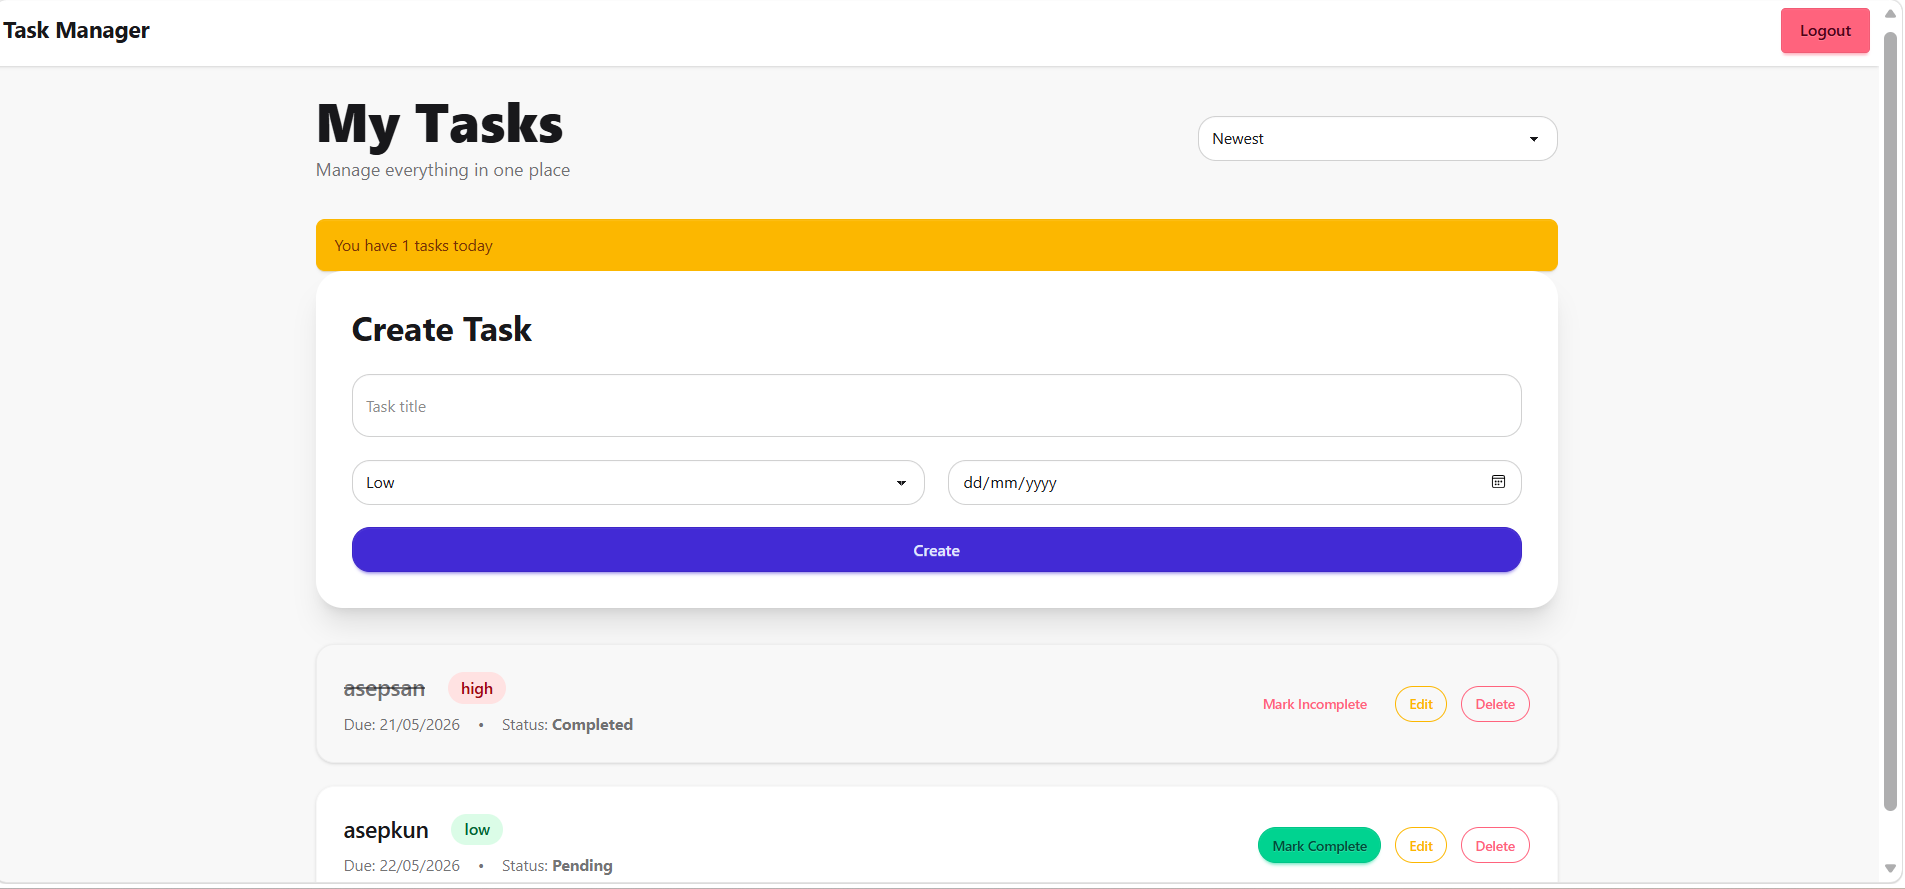
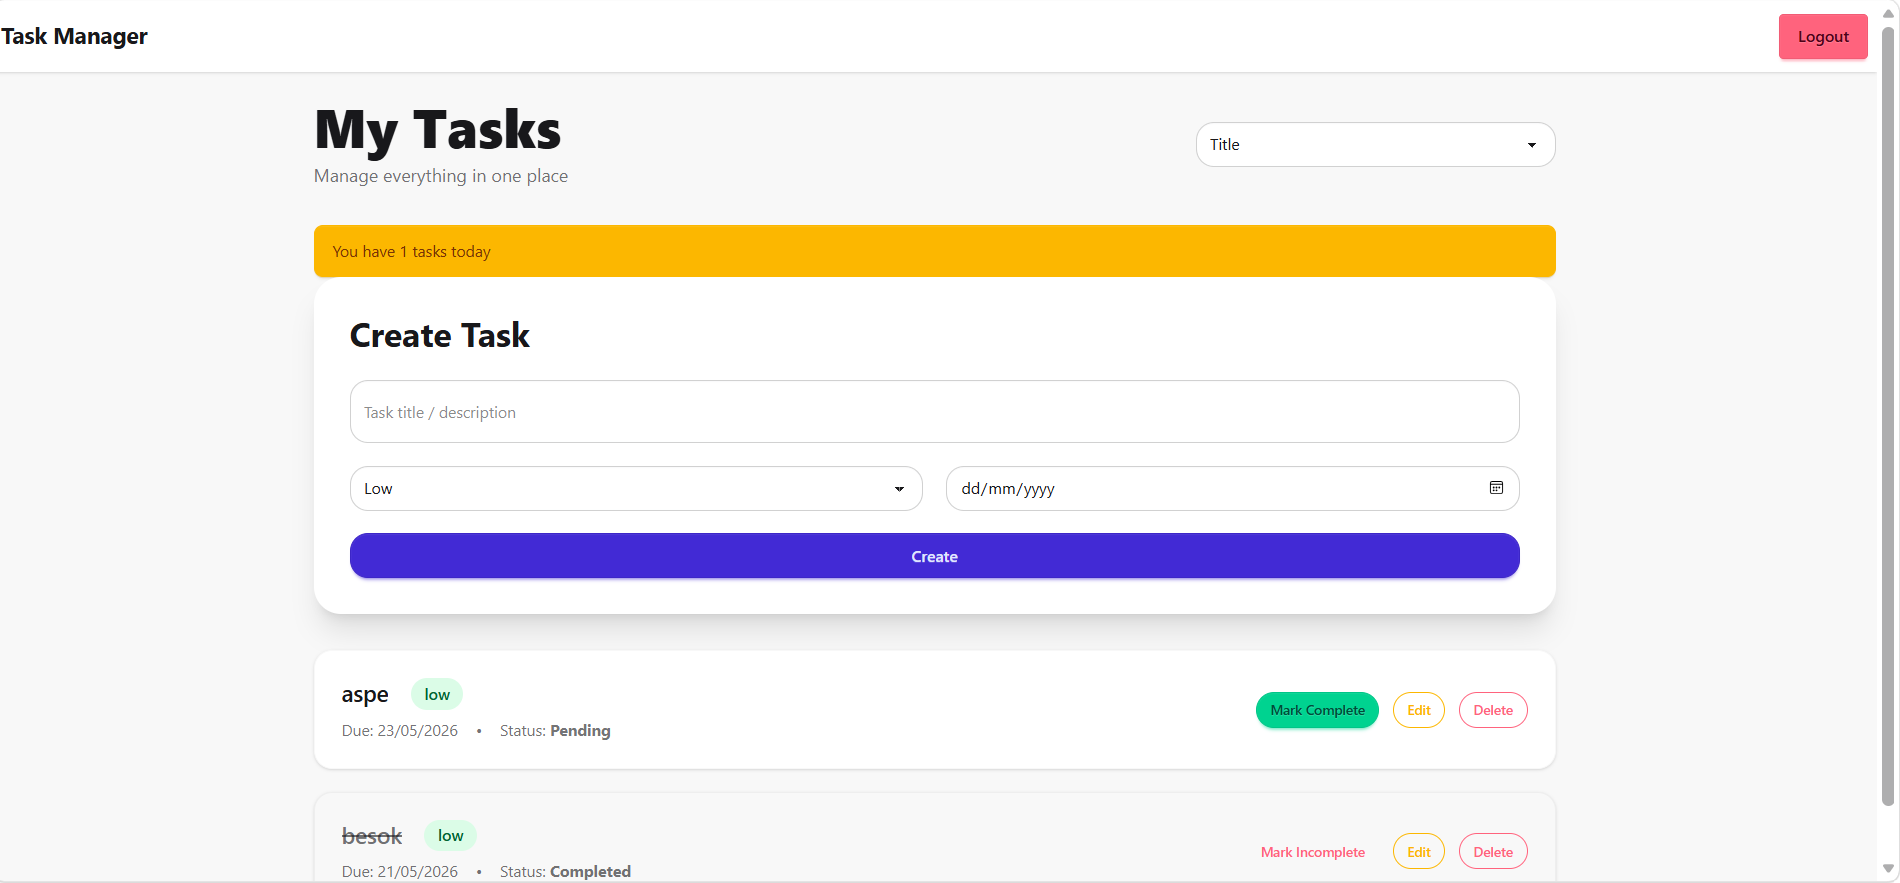
melakukan update ss

diff --git a/client/src/components/TaskForm.jsx b/client/src/components/TaskForm.jsx
@@ -55,7 +55,7 @@ export default function TaskForm({ reload, editingTask, cancelEdit }) {
           name="title"
           value={form.title}
           onChange={change}
-          placeholder="Task title"
+          placeholder="Task title / description"
           required
           className="input input-bordered w-full h-14 rounded-2xl"
         />
